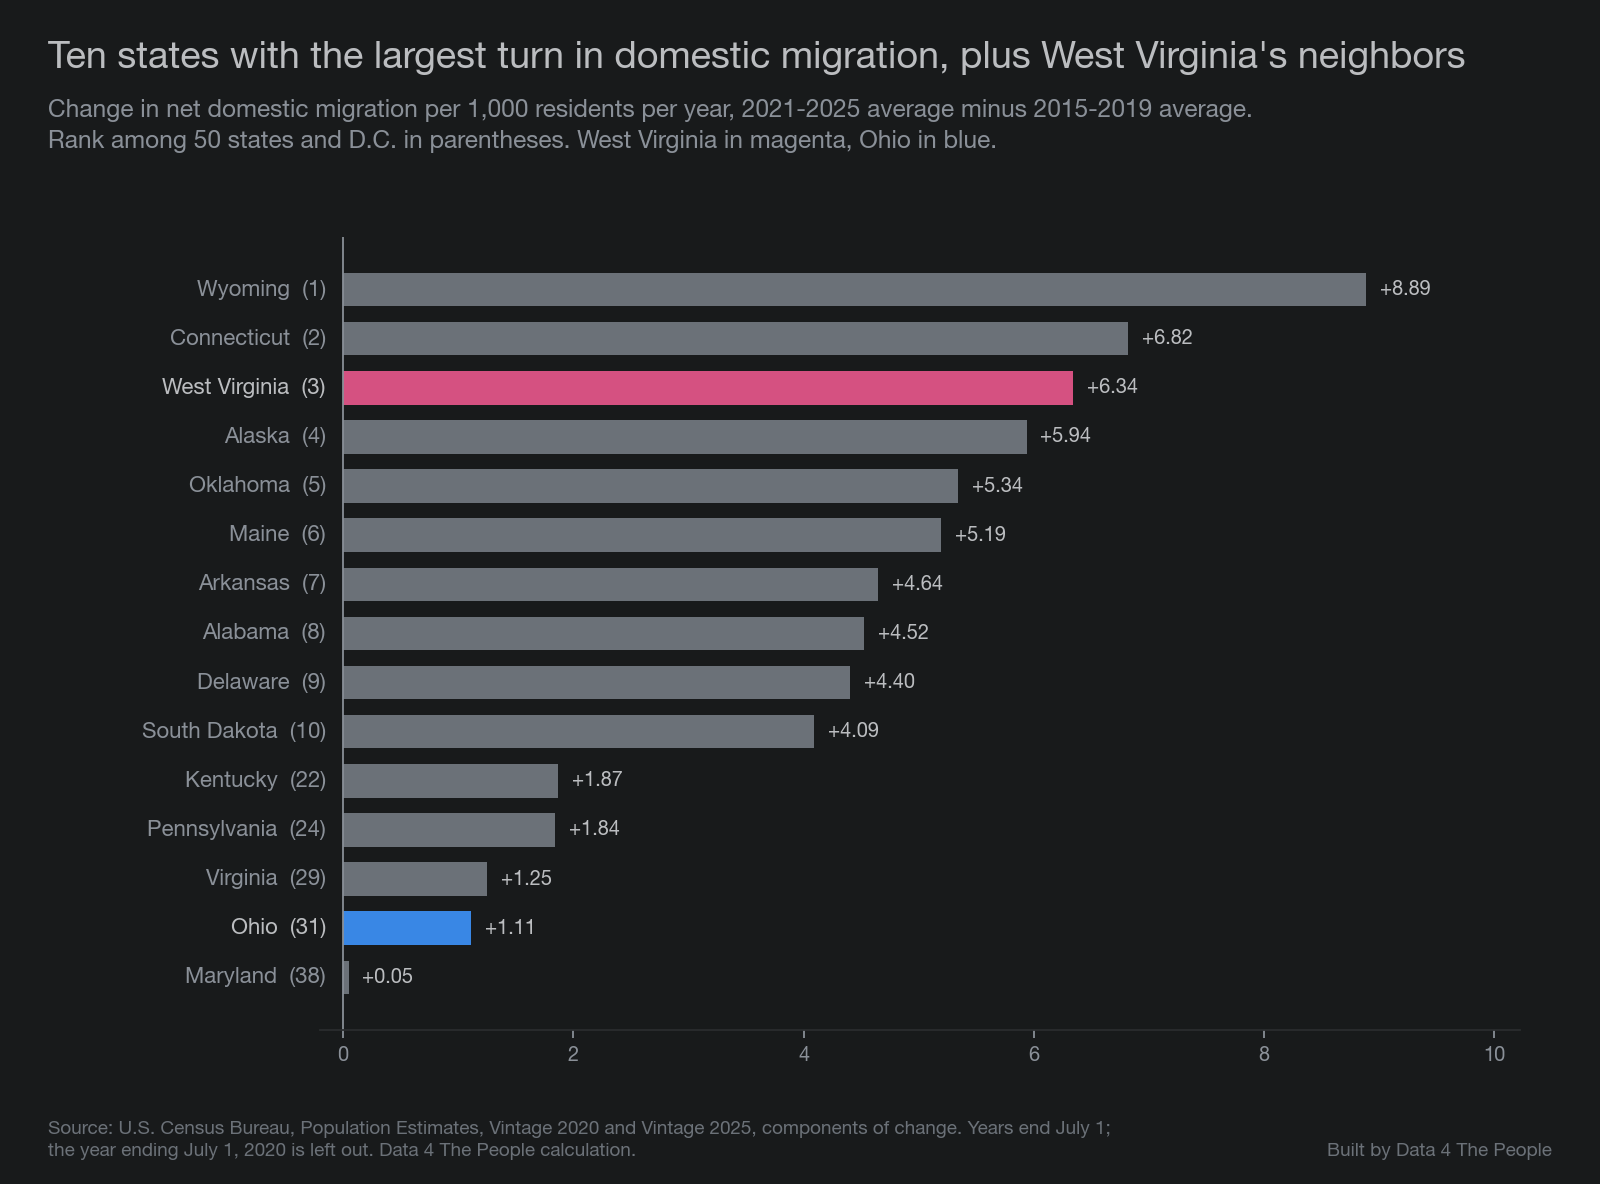
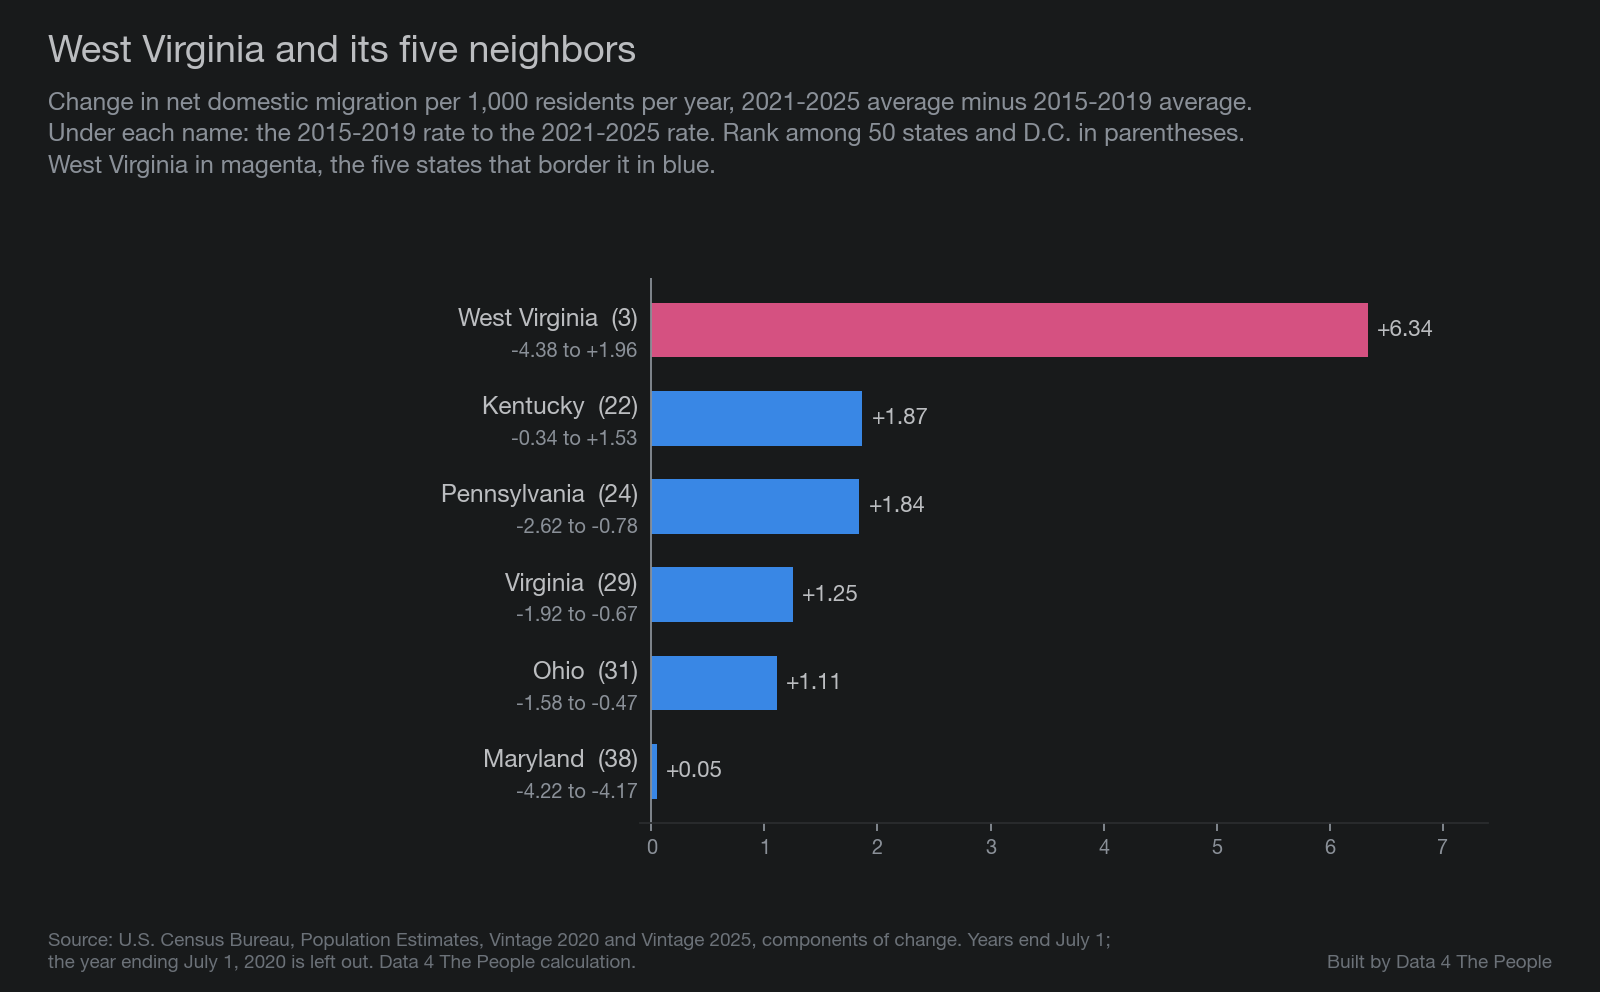
west-virginia-ascend: chart 3 shows West Virginia and its five neighbors

diff --git a/scripts/06_charts.py b/scripts/06_charts.py
@@ -60,32 +60,37 @@ def state_rates():
     return {n: (rate(n, range(2015, 2020)), rate(n, range(2021, 2026))) for n in d}
 
 
+NEIGHBORS = ["Ohio", "Pennsylvania", "Maryland", "Virginia", "Kentucky"]
+
+
 def chart_state_change():
+    """West Virginia and the five states that border it. Rank among 50 states and D.C. in parentheses."""
     rates = state_rates()
     order = sorted(rates, key=lambda n: rates[n][1] - rates[n][0], reverse=True)
-    show = order[:10] + [n for n in ["Ohio", "Pennsylvania", "Kentucky", "Virginia", "Maryland"] if n not in order[:10]]
-    show = sorted(show, key=lambda n: rates[n][1] - rates[n][0])
-    fig, ax = plt.subplots(figsize=(10, 7.4))
-    fig.subplots_adjust(top=0.80, bottom=0.13, left=0.2, right=0.95)
+    show = sorted(["West Virginia"] + NEIGHBORS, key=lambda n: rates[n][1] - rates[n][0], reverse=True)
+    fig, ax = plt.subplots(figsize=(10, 6.2))
+    fig.subplots_adjust(top=0.72, bottom=0.17, left=0.40, right=0.93)
     for i, n in enumerate(show):
-        ch = rates[n][1] - rates[n][0]
-        color = MAGENTA if n == "West Virginia" else (BLUE if n == "Ohio" else MUTED)
-        ax.barh(i, ch, color=color, height=0.68)
-        ax.text(ch + 0.12, i, f"{ch:+.2f}", va="center", fontsize=9, color=INK)
-        rank = order.index(n) + 1
-        ax.text(-0.15, i, f"{n}  ({rank})", va="center", ha="right", fontsize=10,
-                color=INK if n in ("West Virginia", "Ohio") else INK_DIM,
-                fontweight="bold" if n in ("West Virginia", "Ohio") else "normal")
-    ax.axhline(9.5 - (15 - len(show)), color=GRID, lw=0)
+        pre, post = rates[n]
+        color = MAGENTA if n == "West Virginia" else BLUE
+        ax.barh(i, post - pre, color=color, height=0.62)
+        ax.text(post - pre + 0.08, i, f"{post - pre:+.2f}", va="center", fontsize=10, color=INK)
+        bold = n == "West Virginia"
+        ax.text(-0.12, i - 0.12, f"{n}  ({order.index(n) + 1})", va="center", ha="right", fontsize=11,
+                color=INK, fontweight="bold" if bold else "normal")
+        ax.text(-0.12, i + 0.24, f"{pre:+.2f} to {post:+.2f}", va="center", ha="right", fontsize=9,
+                color=INK_DIM)
     ax.set_yticks([])
+    ax.invert_yaxis()
     ax.axvline(0, color=INK_DIM, lw=0.8)
-    ax.set_xlim(-0.2, max(rates[n][1] - rates[n][0] for n in show) * 1.15)
+    ax.set_xlim(-0.1, 7.4)
     ax.tick_params(axis="x", labelsize=9)
     ax.spines["left"].set_visible(False)
-    titleblock(fig, "Ten states with the largest turn in domestic migration, plus West Virginia's neighbors",
+    titleblock(fig, "West Virginia and its five neighbors",
                "Change in net domestic migration per 1,000 residents per year, 2021-2025 average minus "
-               "2015-2019 average.\nRank among 50 states and D.C. in parentheses. West Virginia in magenta, "
-               "Ohio in blue.")
+               "2015-2019 average.\nUnder each name: the 2015-2019 rate to the 2021-2025 rate. Rank among "
+               "50 states and D.C. in parentheses.\nWest Virginia in magenta, the five states that border "
+               "it in blue.")
     credit(fig, "Source: U.S. Census Bureau, Population Estimates, Vintage 2020 and Vintage 2025, components of "
                 "change. Years end July 1;\nthe year ending July 1, 2020 is left out. Data 4 The People "
                 "calculation.")

diff --git a/scripts/99_tieout.py b/scripts/99_tieout.py
@@ -47,9 +47,21 @@ ch = rates(v20, v25)
 rank = sorted(ch, key=ch.get, reverse=True)
 check("States in ranking (50 + D.C.)", len(ch), 51)
 for n, shown_rank, shown in [("Wyoming", 1, 8.89), ("Connecticut", 2, 6.82), ("West Virginia", 3, 6.34),
-                             ("Alaska", 4, 5.94), ("Ohio", 31, 1.11), ("Maryland", 38, 0.05)]:
+                             ("Alaska", 4, 5.94), ("Ohio", 31, 1.11), ("Maryland", 38, 0.05),
+                             ("Kentucky", 22, 1.87), ("Pennsylvania", 24, 1.84), ("Virginia", 29, 1.25)]:
     check(f"{n} change per 1,000 (chart 3)", round(ch[n], 2), shown, tol=0.005)
     check(f"{n} rank (chart 3)", rank.index(n) + 1, shown_rank)
+
+_lvl = {}
+for n in ["West Virginia", "Ohio", "Pennsylvania", "Maryland", "Virginia", "Kentucky"]:
+    s20_ = v20[(v20.SUMLEV == 40) & (v20.STNAME == n)].iloc[0]; s25_ = v25[(v25.SUMLEV == 40) & (v25.STNAME == n)].iloc[0]
+    _lvl[n] = (sum(s20_[f"DOMESTICMIG{y}"] for y in range(2015, 2020)) / (sum(s20_[f"POPESTIMATE{y}"] for y in range(2015, 2020)) / 5) / 5 * 1000,
+               sum(s25_[f"DOMESTICMIG{y}"] for y in range(2021, 2026)) / (sum(s25_[f"POPESTIMATE{y}"] for y in range(2021, 2026)) / 5) / 5 * 1000)
+check("WV 2015-2019 rate lowest of WV and five neighbors (chart 3)", int(min(_lvl, key=lambda n: _lvl[n][0]) == "West Virginia"), 1)
+check("WV 2021-2025 rate highest of WV and five neighbors (chart 3)", int(max(_lvl, key=lambda n: _lvl[n][1]) == "West Virginia"), 1)
+check("WV 2015-2019 rate (chart 3)", round(_lvl["West Virginia"][0], 2), -4.38)
+check("WV 2021-2025 rate (chart 3)", round(_lvl["West Virginia"][1], 2), 1.96)
+check("Kentucky 2021-2025 rate (chart 3)", round(_lvl["Kentucky"][1], 2), 1.53)
 
 # --- Census: county groups (chart 4) ---------------------------------------------------------------------
 groups = {"Eastern Panhandle (Ascend)": ["037", "003", "065"],
@@ -214,6 +226,7 @@ WORDS = [
     ("Chart 1 note 'two vintages use different Census bases and are not revised to match'", "supported",
      "Census methodology page and V2025 methods statement"),
     ("Chart 3 'Rank among 50 states and D.C.'", "supported", "51 state rows recomputed above"),
+    ("Chart 3 'the five states that border it' (OH, PA, MD, VA, KY)", "supported", "U.S. state borders"),
     ("Map outlines the six Ascend areas (10 counties)", "partly supported",
      "Same county list as chart 4; inferred from ascendwv.com community pages"),
     ("Map 'moves to and from other counties, in West Virginia or other states'", "supported",

diff --git a/TIEOUT.md b/TIEOUT.md
@@ -37,6 +37,17 @@ Generated by `scripts/99_tieout.py`. Numbers recomputed from `data/raw/` with pa
 | Ohio rank (chart 3) | 31 | 31 | match |
 | Maryland change per 1,000 (chart 3) | 0.05 | 0.05 | match |
 | Maryland rank (chart 3) | 38 | 38 | match |
+| Kentucky change per 1,000 (chart 3) | 1.87 | 1.87 | match |
+| Kentucky rank (chart 3) | 22 | 22 | match |
+| Pennsylvania change per 1,000 (chart 3) | 1.84 | 1.84 | match |
+| Pennsylvania rank (chart 3) | 24 | 24 | match |
+| Virginia change per 1,000 (chart 3) | 1.25 | 1.25 | match |
+| Virginia rank (chart 3) | 29 | 29 | match |
+| WV 2015-2019 rate lowest of WV and five neighbors (chart 3) | 1 | 1 | match |
+| WV 2021-2025 rate highest of WV and five neighbors (chart 3) | 1 | 1 | match |
+| WV 2015-2019 rate (chart 3) | -4.38 | -4.38 | match |
+| WV 2021-2025 rate (chart 3) | 1.96 | 1.96 | match |
+| Kentucky 2021-2025 rate (chart 3) | 1.53 | 1.53 | match |
 | WV counties | 55 | 55 | match |
 | Eastern Panhandle (Ascend), net domestic 2015_2019 | 9486 | 9486 | match |
 | Eastern Panhandle (Ascend), rate 2015_2019 (chart 4) | 9.99 | 9.99 | match |
@@ -141,6 +152,7 @@ Generated by `scripts/99_tieout.py`. Numbers recomputed from `data/raw/` with pa
 | Chart 1 marker 'First Ascend class of 53 announced Sept. 2021' | supported | Ascend release Sept 2, 2021: 'The 53 class members...'; independent tie-out found 'arrive' only partly supported |
 | Chart 1 note 'two vintages use different Census bases and are not revised to match' | supported | Census methodology page and V2025 methods statement |
 | Chart 3 'Rank among 50 states and D.C.' | supported | 51 state rows recomputed above |
+| Chart 3 'the five states that border it' (OH, PA, MD, VA, KY) | supported | U.S. state borders |
 | Map outlines the six Ascend areas (10 counties) | partly supported | Same county list as chart 4; inferred from ascendwv.com community pages |
 | Map 'moves to and from other counties, in West Virginia or other states' | supported | County domestic migration counts moves between any two U.S. counties (Census components of change) |
 | Map panel labels 'July 2014 to July 2019' and 'July 2020 to July 2025' | supported | Years end July 1; DOMESTICMIG2015-2019 and 2021-2025 |
@@ -163,7 +175,7 @@ Generated by `scripts/99_tieout.py`. Numbers recomputed from `data/raw/` with pa
 | Bartik: 58-70% would not have moved; $36k vs $218k per job | supported (summary only) | Upjohn two-page summary; full report not opened |
 | JobsOhio figures are commitments, not verified jobs | supported | JobsOhioSmallBiz DATASETS.md, monthly executed reports section |
 
-**127 of 127 numbers match.**
+**138 of 138 numbers match.**
 
 ## Independent tie-out (fresh agent, November 14, 2026)
 

diff --git a/posts/west-virginia-ascend/POST.md b/posts/west-virginia-ascend/POST.md
@@ -60,9 +60,9 @@ For most of the last decade, more people moved from West Virginia to other state
 ![Bar chart of West Virginia's net domestic migration for years ending July 2011 to July 2025. Bars are negative every year from 2013 through 2020, lowest at minus 10,139 in 2017, then positive every year from 2021, reaching plus 6,408 in 2025. A line marks Ascend WV's first class.](images/01-wv-net-domestic-migration.png)
 *Source: U.S. Census Bureau, Population Estimates, Vintage 2020 and Vintage 2025.*
 
-That was one of the largest turns in the country. Per resident, West Virginia's change from 2015-2019 to 2021-2025 ranks third among the 50 states and D.C., at 6.34 more people per 1,000 residents a year. Ohio ranks 31st. The next chart shows the ten states with the largest turn, plus West Virginia's neighbors.
+That turn dramatically outperformed all five of West Virginia's neighbors. Per resident, West Virginia went from losing people to other states faster than any of them in 2015-2019 to gaining people faster than any of them in 2021-2025. Its change, 6.34 more people per 1,000 residents a year, ranks third among the 50 states and D.C. The closest neighbor, Kentucky, ranks 22nd at 1.87. Ohio ranks 31st. The next chart compares West Virginia with the five states that border it.
 
-![Bar chart of the change in net domestic migration per 1,000 residents per year, 2021-2025 average minus 2015-2019 average, for the ten states with the largest change plus West Virginia's neighbors. West Virginia ranks 3rd at plus 6.34. Ohio ranks 31st at plus 1.11.](images/03-state-migration-turn.png)
+![Bar chart of the change in net domestic migration per 1,000 residents per year, 2021-2025 average minus 2015-2019 average, for West Virginia and its five neighbors. West Virginia, ranked 3rd of 51, rose 6.34, from minus 4.38 to plus 1.96. Kentucky rose 1.87, Pennsylvania 1.84, Virginia 1.25, Ohio 1.11 and Maryland 0.05.](images/03-state-migration-turn.png)
 *Source: U.S. Census Bureau, Population Estimates, Vintage 2020 and Vintage 2025. Data 4 The People calculation.*
 
 Most of West Virginia's gain went to one corner of the state. The three Eastern Panhandle counties, Jefferson, Berkeley and Morgan, gained 21,680 people through moves from 2021 to 2025. That is more than the state's total of 17,349. Without them, the rest of West Virginia lost 4,331 people, on net. County figures also count moves from one West Virginia county to another; those cancel out in the state total.

diff --git a/posts/west-virginia-ascend/BEATS.md b/posts/west-virginia-ascend/BEATS.md
@@ -12,7 +12,8 @@ here goes into the post unless Eric writes it or brackets it.
   -10,139 in 2017), then positive every year from 2021 (+6,408 in 2025).
   2021-2025 total +17,349; 2015-2019 total -39,847.
 - Chart 3, `charts/03-state-migration-turn.png`. West Virginia's turn ranks
-  3rd of 51 (+6.34 per 1,000 residents a year). Ohio ranks 31st (+1.11).
+  3rd of 51 (+6.34 per 1,000 residents a year). Chart shows West Virginia and
+  its five neighbors only; Kentucky is the closest at +1.87 (22nd). Ohio ranks 31st (+1.11).
 
 ## 3. The Eastern Panhandle drove most of it
 
